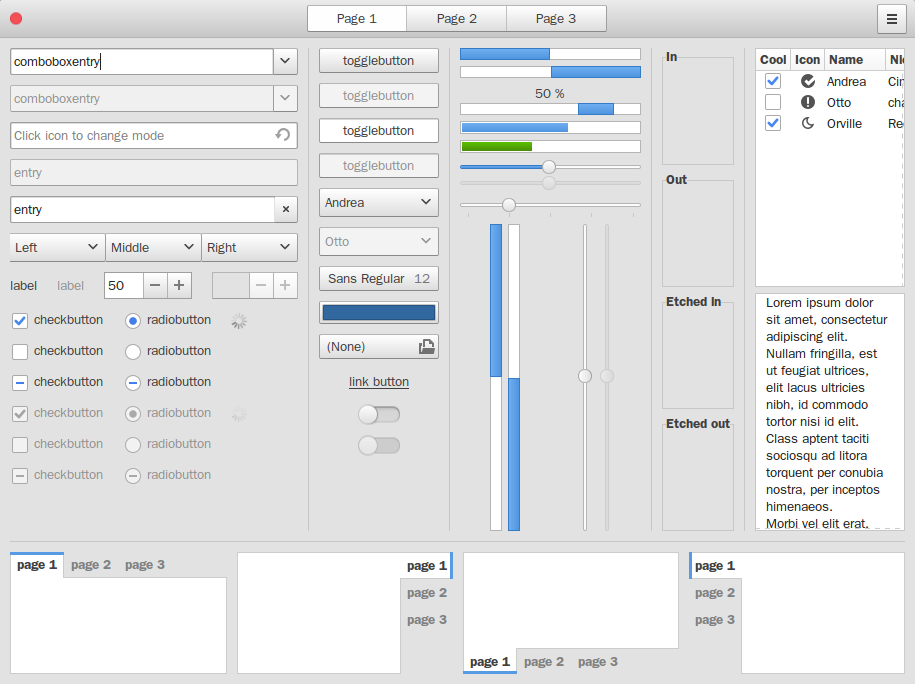
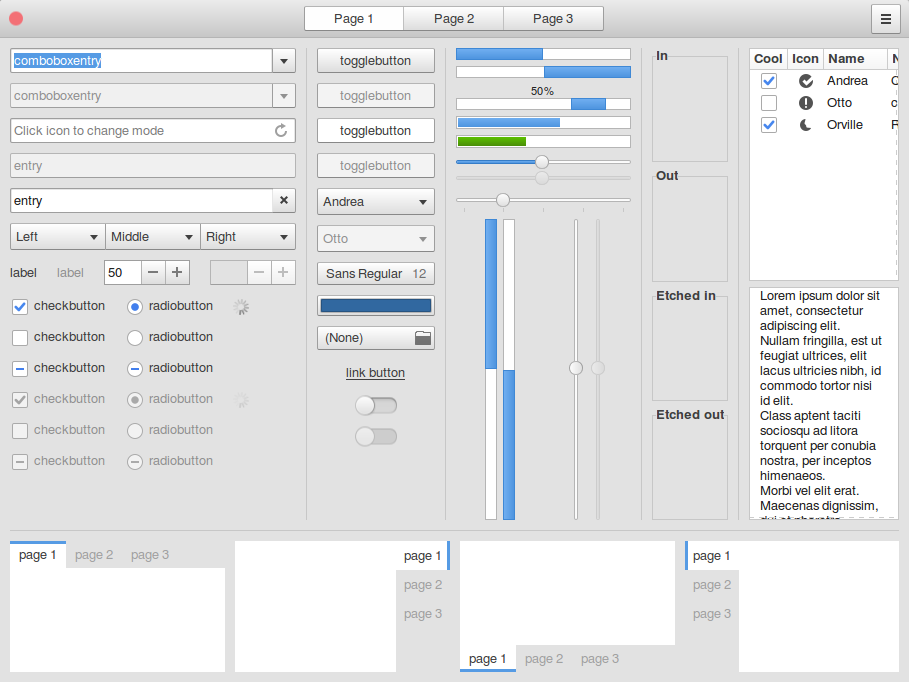
GTK3: small refinements

diff --git a/MosSky/gtk-3.0/gtk-widgets.css b/MosSky/gtk-3.0/gtk-widgets.css
@@ -29,7 +29,7 @@
     -GtkPaned-handle-size: 1;
     -GtkProgressBar-min-horizontal-bar-height: 12;
     -GtkProgressBar-min-vertical-bar-width: 12;
-    -GtkRange-slider-width: 13;
+    -GtkRange-slider-width: 14;
     -GtkRange-stepper-spacing: 0;
     -GtkRange-trough-border: 0;
     -GtkRange-trough-under-steppers: 1;
@@ -1602,7 +1602,7 @@ GtkLevelBar.vertical {
  * Scrollbars *
  **************/
 .scrollbar {
-  -GtkRange-slider-width: 13;
+  -GtkRange-slider-width: 14;
   -GtkRange-trough-border: 1;
   -GtkScrollbar-has-backward-stepper: false;
   -GtkScrollbar-has-forward-stepper: false;
@@ -1616,8 +1616,8 @@ GtkLevelBar.vertical {
     -GtkRange-slider-width: 6px; }
     .scrollbar.overlay-indicator:not(.dragging):not(.hovering) .slider {
       margin: 0;
-      background-color: #8b8e96;
-      border: 1px solid rgba(255, 255, 255, 0.6);
+      background-color: transparent;
+      border: none;
       background-clip: padding-box; }
     .scrollbar.overlay-indicator:not(.dragging):not(.hovering) .trough {
       border-style: none;
@@ -1631,14 +1631,14 @@ GtkLevelBar.vertical {
   .scrollbar.overlay-indicator.dragging, .scrollbar.overlay-indicator.hovering {
     opacity: 0.99; }
   .scrollbar .trough {
-    background-color: shade(@theme_bg_color, 1.04);
-    border: 1px none shade(@borders, 1.04); }
+    background-color: shade(@theme_bg_color, 1.12);
+    border: none;}
   .scrollbar .slider {
     background-color: shade(@theme_bg_color, 0.8) }
     .scrollbar .slider:hover {
-      background-color: shade(@theme_bg_color, 0.5) }
+      background-color: shade(@theme_bg_color, 0.8) }
     .scrollbar .slider:prelight:active {
-      background-color: @theme_selected_bg_color; }
+      background-color: shade(@theme_bg_color, 0.5) }
     .scrollbar .slider:insensitive {
       background-color: transparent; }
   .scrollbar .slider {
